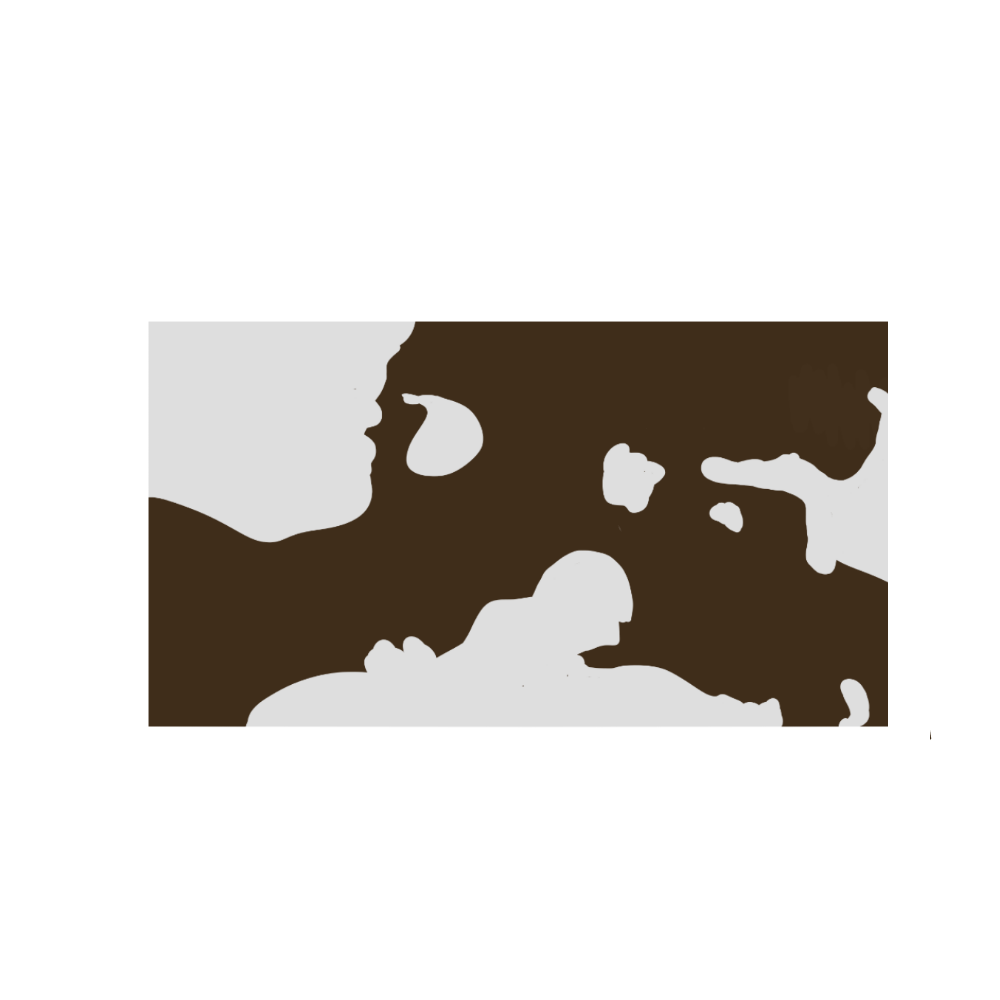
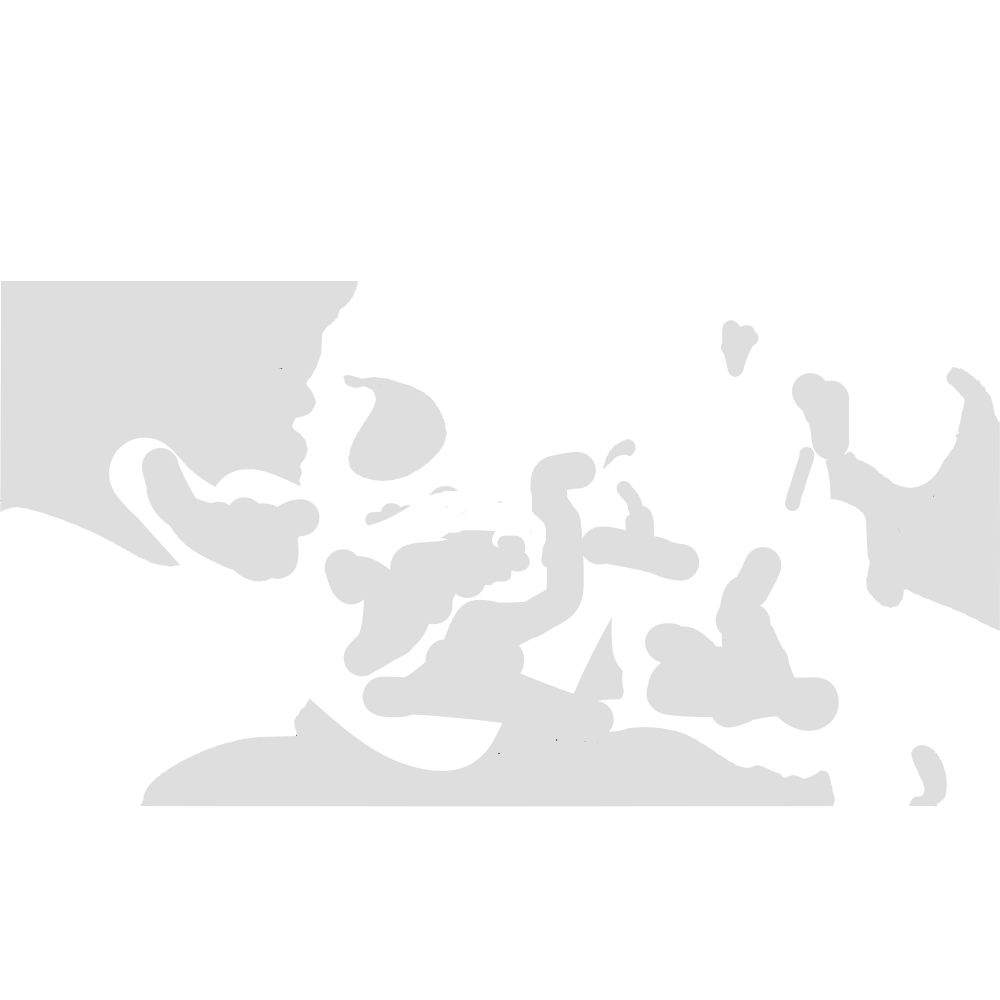
Working on programaticaly setting colour

diff --git a/js/genetics.js b/js/genetics.js
@@ -54,6 +54,7 @@ for (q of quirshiPopulation) {
    var imgs=[];
    imageURLs.push("imgs/QuirshiBase.png");
    imageURLs.push("imgs/QuirshiColour.png");
+   imageURLs.push("imgs/QuirshiLines.png");
 
 
    function loadAllImages(){
@@ -70,7 +71,7 @@ for (q of quirshiPopulation) {
         // all images are fully loaded an ready to use
         base=imgs[0];
         colour=imgs[1];
-        overlay=imgs[1];
+        lines=imgs[2];
         console.log("imagesAllLoaded");
         start();
      }
@@ -81,33 +82,20 @@ for (q of quirshiPopulation) {
         // save the context state
         ctx.save();
 
-        // draw the overlay
-        ctx.drawImage(overlay,150,35);
+        // draw the lines
+        ctx.drawImage(base,0, 0);
 
-        // change composite mode to source-in
-        // any new drawing will only overwrite existing pixels
         ctx.globalCompositeOperation="source-in";
+        ctx.fillStyle="#2f3030";
+        ctx.fillRect(0,0,canvas.width,canvas.height);
 
-        // draw a purple rectangle the size of the canvas
-        // Only the overlay will become purple
-        //ctx.fillStyle="red";
-        //ctx.fillRect(0,0,canvas.width,canvas.height);
+         ctx.globalCompositeOperation="source-atop";
+         ctx.drawImage(colour,0,0);
 
-        // change the composite mode to destination-atop
-        // any new drawing will not overwrite any existing pixels
-        ctx.globalCompositeOperation="destination-atop";
+        ctx.globalCompositeOperation="multiply";
+        ctx.drawImage(lines,0,0);
 
-        // draw the full colour
-        // This will NOT overwrite any existing purple overlay pixels
-        ctx.drawImage(colour,150,35);
 
-        // draw the base
-        // This will NOT replace any existing pixels
-        // The purple overlay will not be overwritten
-        // The blue colour will not be overwritten
-        ctx.drawImage(base,0,0);
-
-        // restore the context to it's original state
         ctx.restore();
           console.log("here2")
     }
